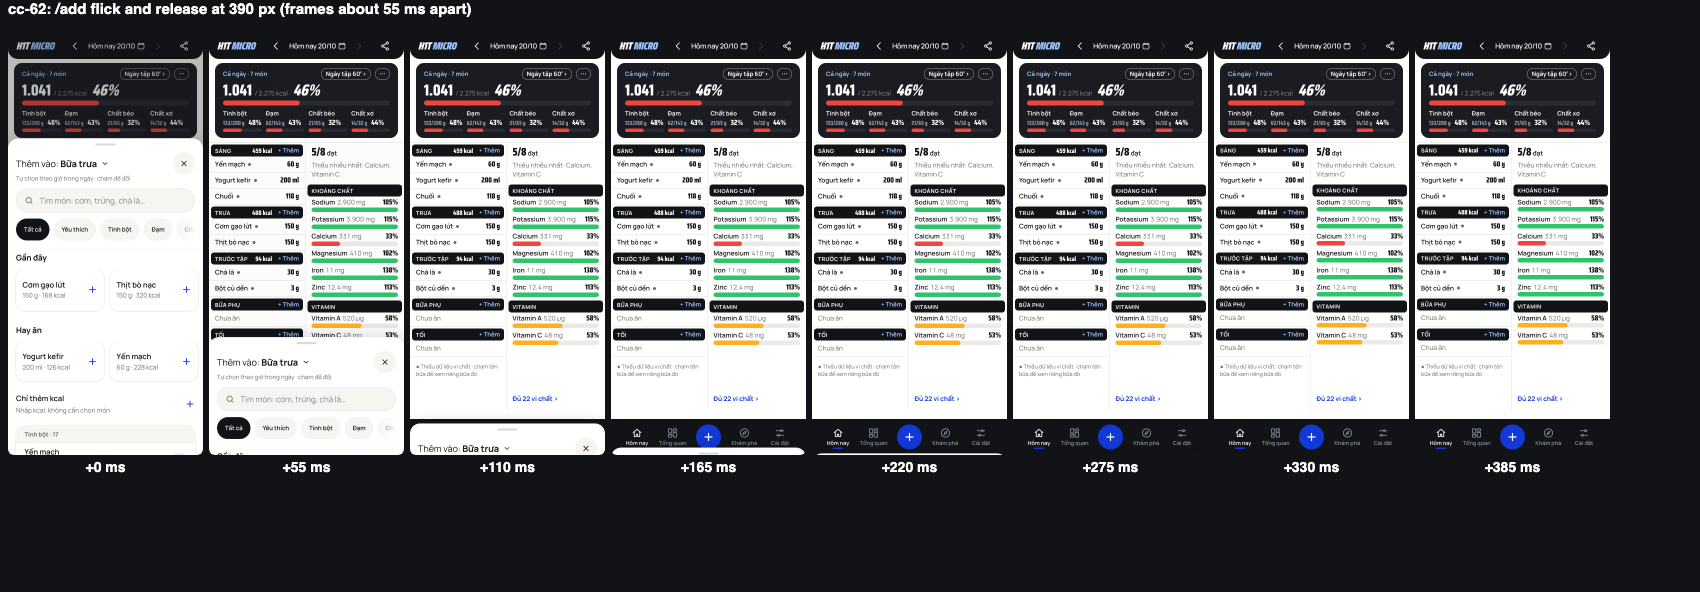
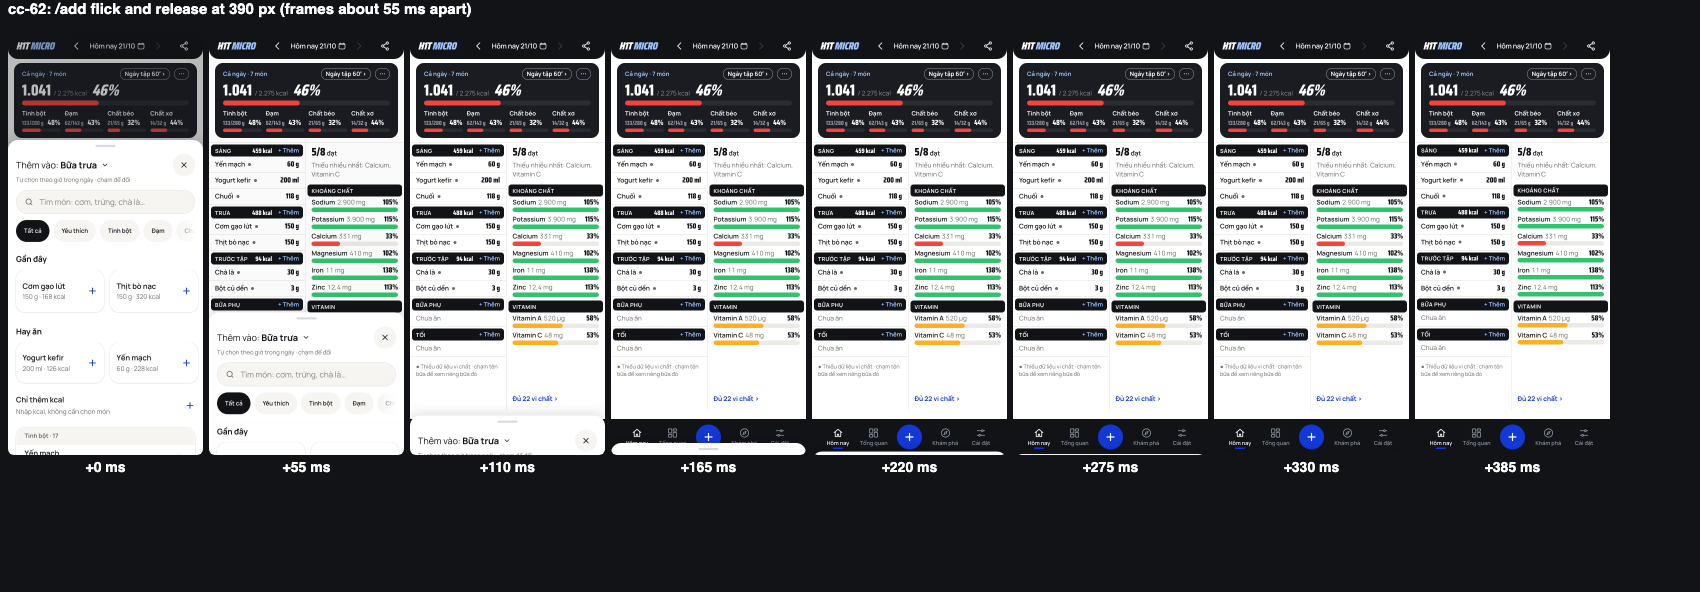
fix-rich-tabs: the Có gì mới probes know 21c; the item gets a one-line title
cc_46 and cc_tutorials pinned 21b as the newest release: they now expect 21c (no tour: no Thử ngay for a fresh
account; one that saw 21a still gets 21b's tour), three 21/10 releases and eleven groups. The edits follow #33's own
edits to the same probes, so they meet at merge. cc_46 holds every newest title to one line at 390 px, so the item is
"Thực phẩm bổ sung có thẻ riêng" with the brief's sentence as its body.

diff --git a/apps/web/lib/releases.ts b/apps/web/lib/releases.ts
@@ -38,7 +38,7 @@ export const RELEASES: readonly Release[] = [
     id: "2026-10-21c",
     date: "21/10",
     items: [
-      { icon: "bars", title: "Danh sách Giàu … giờ tách riêng thực phẩm và thực phẩm bổ sung", body: "Trong Khám phá, thực phẩm và thực phẩm bổ sung nằm ở hai thẻ riêng, nên viên uống không còn đứng đầu danh sách món ăn." },
+      { icon: "bars", title: "Thực phẩm bổ sung có thẻ riêng", body: "Danh sách Giàu … giờ tách riêng thực phẩm và thực phẩm bổ sung thành hai thẻ trong Khám phá, nên viên uống không còn đứng đầu danh sách món ăn." },
     ],
   },
   // cc-73b (Hao 20/10): targets at the upper end of the coach's range, one number each; vitamins and minerals by the US DRI

diff --git a/apps/web/lib/__tests__/releases.test.ts b/apps/web/lib/__tests__/releases.test.ts
@@ -177,7 +177,7 @@ describe("unseenReleases (what Có gì mới lists)", () => {
     const r = latestRelease();
     expect(r?.id).toBe("2026-10-21c");
     expect(r?.date).toBe("21/10");
-    expect(r?.items.map((i) => i.title)).toContain("Danh sách Giàu … giờ tách riêng thực phẩm và thực phẩm bổ sung");
+    expect(r?.items.map((i) => i.title)).toContain("Thực phẩm bổ sung có thẻ riêng");
     expect(r?.tour).toBeUndefined();
     for (const i of r?.items ?? []) expect(i.body).not.toContain(":");
   });

diff --git a/apps/web/tests/probes/cc_tutorials.py b/apps/web/tests/probes/cc_tutorials.py
@@ -36,7 +36,7 @@ SHOTS.mkdir(exist_ok=True)
 PHONE = {"width": 390, "height": 844}
 TOUCH = {"has_touch": True, "is_mobile": True}
 SETTINGS_KEY = "h1t_settings_v1_demo"
-RELEASE = "2026-10-21b"
+RELEASE = "2026-10-21c"
 # Every tip that existed before 18c: a returning user has seen them
 OLD_TIPS = [
     "unsaved", "home-logged", "meal-add", "home-share", "pull-refresh", "nutrient-sources", "past-day", "multi-select", "add-tray", "add-shortlists", "haptics",
@@ -151,9 +151,9 @@ def start_tour(pg):
     check("Ghi theo lon, viên, phần" in text and text.index("Ghi theo lon, viên, phần") < text.index("Gần đây và Hay ăn"), "…and 18d above it (newest first)")
     check("Ngày tập ghi vào nhật ký" in text and text.index("Ngày tập ghi vào nhật ký") < text.index("Ghi theo lon, viên, phần"), "…and cc-52's 18e above that")
     check("Khẩu phần theo gam" in text and text.index("Khẩu phần theo gam") < text.index("Ngày tập ghi vào nhật ký"), "…and cc-53b's 18f above that")
-    check("Quên ghi hôm qua? Ghi bù được rồi" in text and "Tìm món gọn hơn" in text and "Giữ rồi kéo món sang bữa khác" in text and text.index("Mục tiêu rõ ràng hơn") < text.index("Bấm chữ H1T MICRO để về Hôm nay") < text.index("Bấm vào ngày để mở lịch") < text.index("Giữ rồi kéo món sang bữa khác") < text.index("Quên ghi hôm qua? Ghi bù được rồi") < text.index("Tìm món gọn hơn") < text.index("Khẩu phần theo gam"), "…and the follow-ups' 21a, the overnight 20b, cc-70's 20a, cc-68's 19b and cc-67's 19a on top")
+    check("Quên ghi hôm qua? Ghi bù được rồi" in text and "Tìm món gọn hơn" in text and "Giữ rồi kéo món sang bữa khác" in text and text.index("Thực phẩm bổ sung có thẻ riêng") < text.index("Mục tiêu rõ ràng hơn") < text.index("Bấm chữ H1T MICRO để về Hôm nay") < text.index("Bấm vào ngày để mở lịch") < text.index("Giữ rồi kéo món sang bữa khác") < text.index("Quên ghi hôm qua? Ghi bù được rồi") < text.index("Tìm món gọn hơn") < text.index("Khẩu phần theo gam"), "…and 21c, 21b, the follow-ups' 21a, the overnight 20b, cc-70's 20a, cc-68's 19b and cc-67's 19a on top")
     check("Thực phẩm bổ sung\n" not in text + "\n" and "Đồng bộ ổn định hơn" not in text, "…not 18b or 18, which were seen")
-    check(sheet(pg).locator("section").count() == 10, "ten groups, one per release")
+    check(sheet(pg).locator("section").count() == 11, "eleven groups, one per release")
     try_now = sheet(pg).get_by_role("button", name="Thử ngay (1 phút)")
     check(try_now.count() == 1, "Thử ngay (1 phút): the unseen releases have a tour")
     shot(pg, "sheet")
@@ -167,7 +167,7 @@ def tour(browser):
     before = entries(pg)
     start_tour(pg)
     check(sheet(pg).count() == 0, "Thử ngay closes the sheet")
-    check(flags(pg).get("whatsNewSeen") == RELEASE, "the newest release (21b) is marked seen")
+    check(flags(pg).get("whatsNewSeen") == RELEASE, "the newest release (21c) is marked seen")
     for i, (title, targets) in enumerate(STEPS):
         ok = visible(card(pg))
         text = step_text(pg)
@@ -352,7 +352,7 @@ def seen_18c(browser):
     shot(pg, "seen-18c")
     sheet(pg).get_by_role("button", name="Để sau").click()
     pg.wait_for_timeout(500)
-    check(flags(pg).get("whatsNewSeen") == RELEASE, "seen 18c: Để sau marks 21b seen")
+    check(flags(pg).get("whatsNewSeen") == RELEASE, "seen 18c: Để sau marks 21c seen")
     ctx.close()
     # (A new account never sees it: cc_46.py new_account)
 
